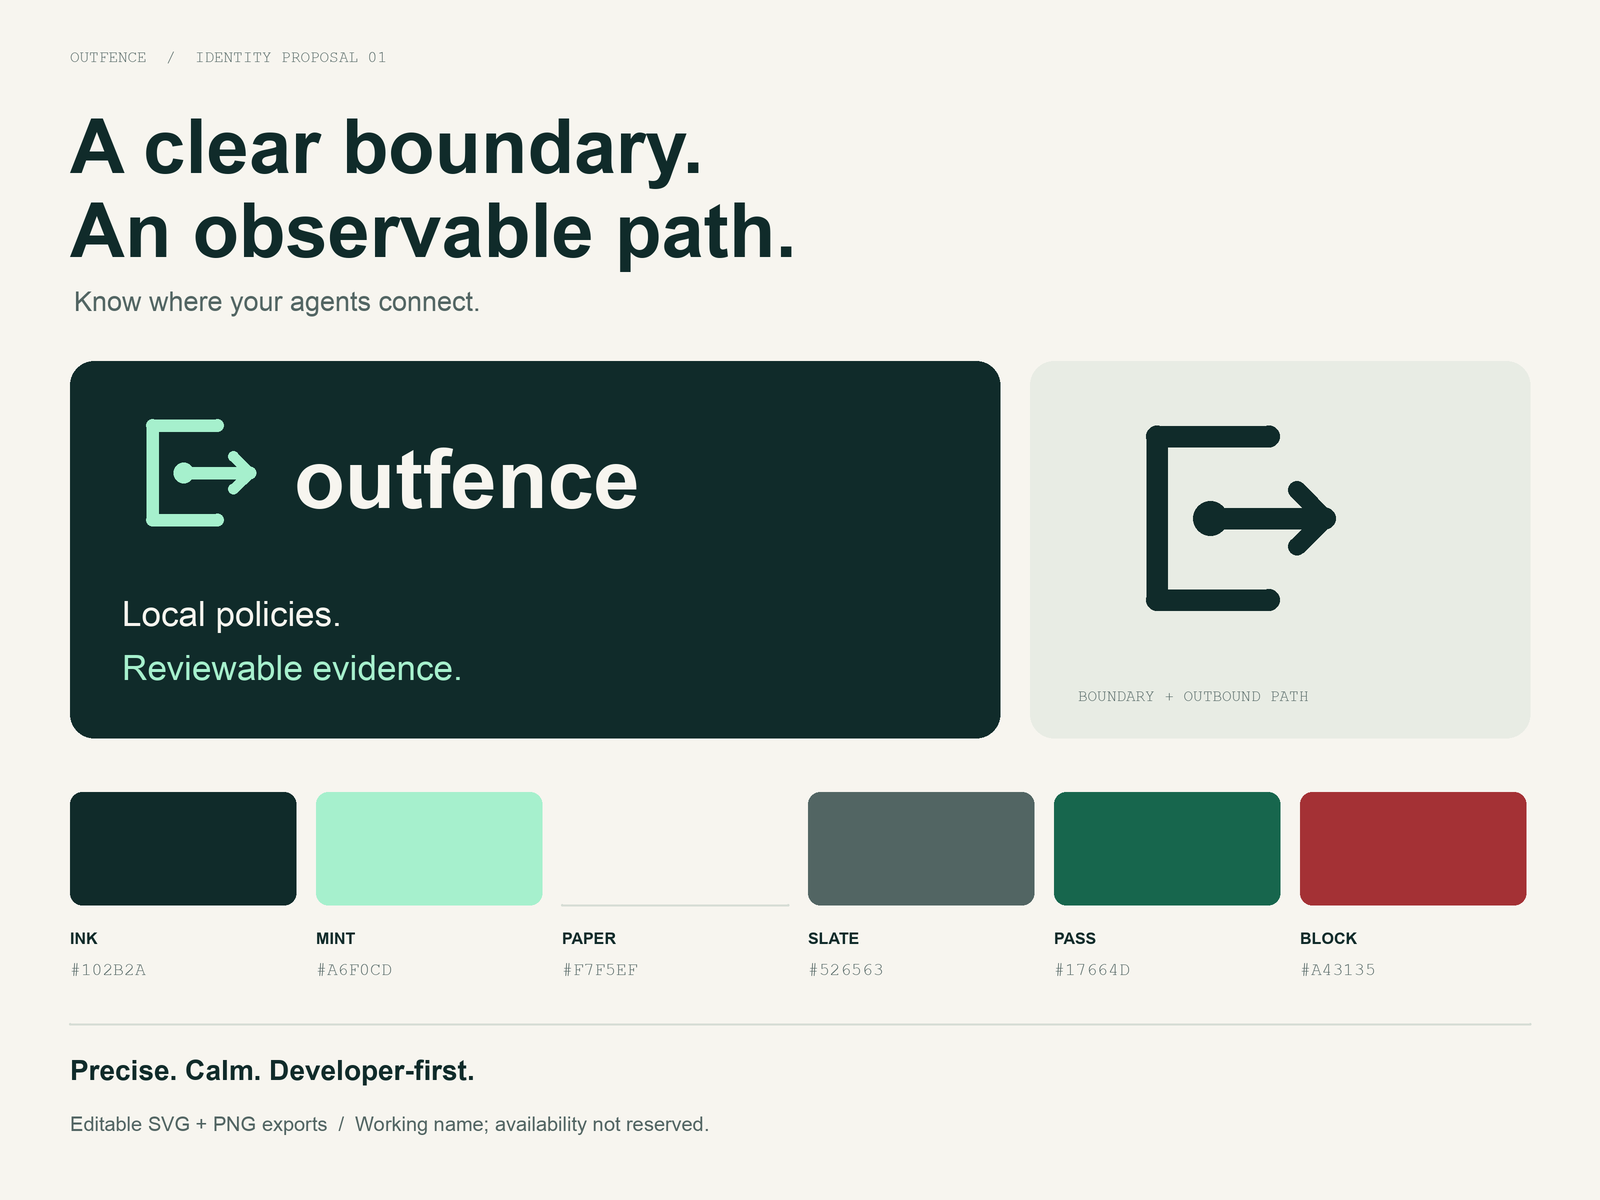
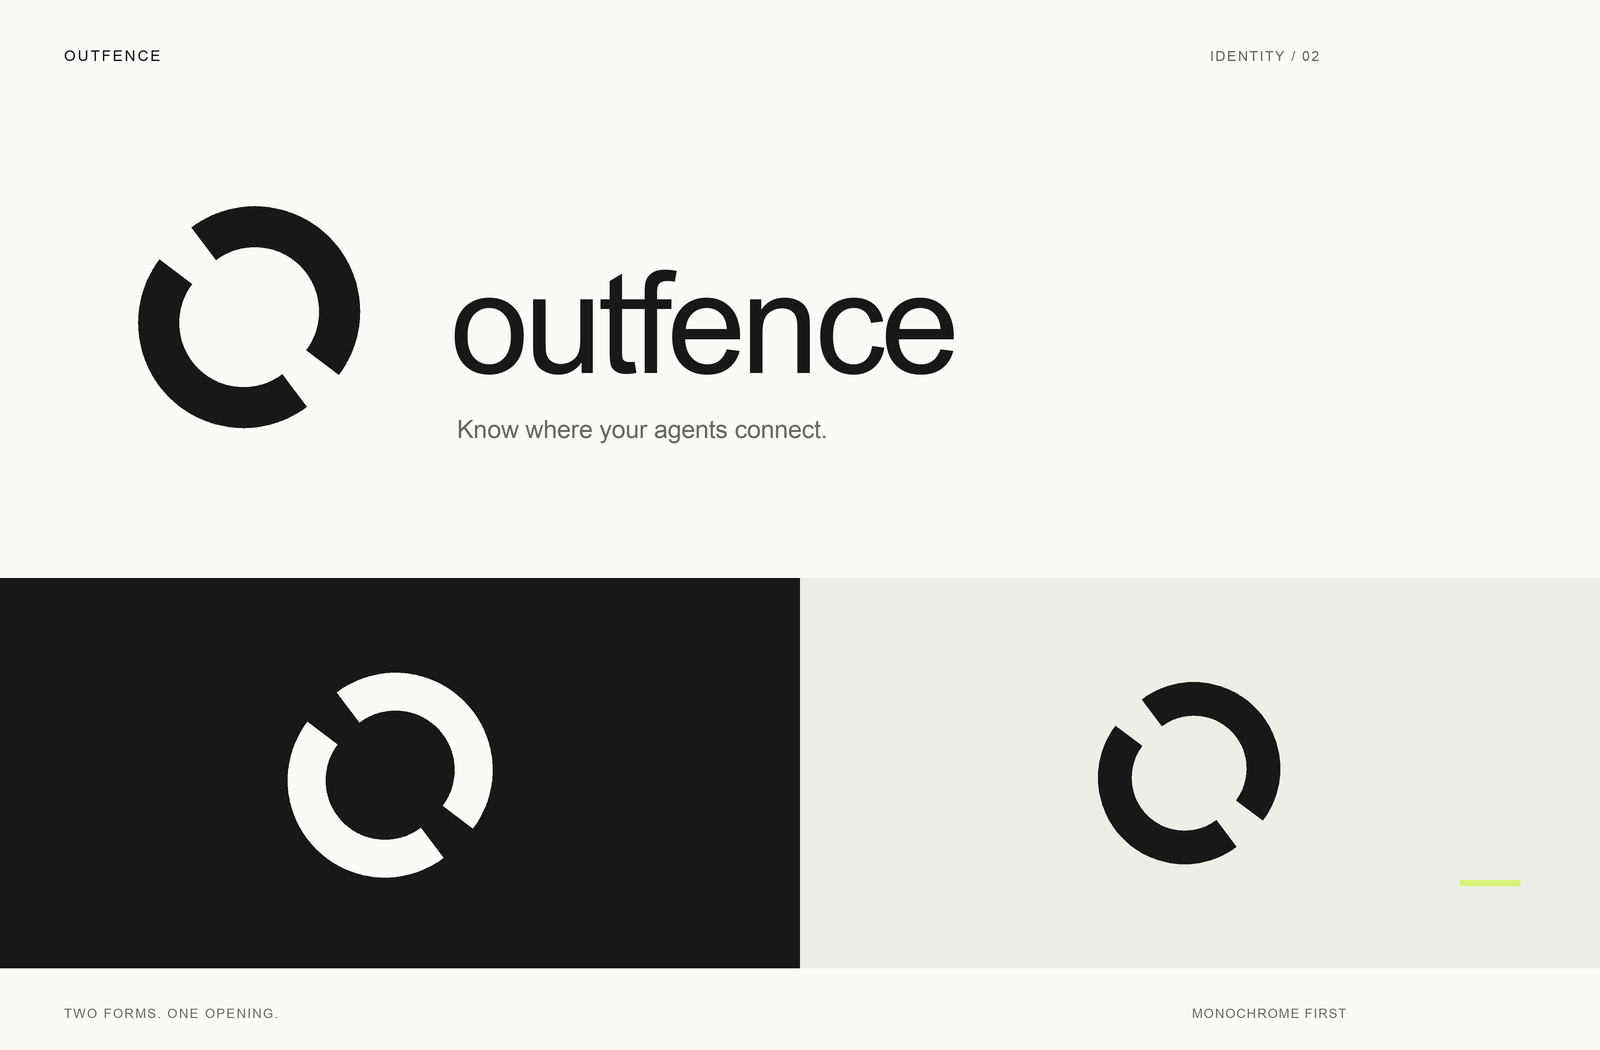
Redesign identity and avoid reverse DNS during local server startup

diff --git a/scripts/build_brand.py b/scripts/build_brand.py
@@ -1,85 +1,94 @@
-"""Generate original vector brand assets and matching high-resolution PNG exports.
-Requires Pillow for PNG export; uses system Arial or a supplied OUTFENCE_FONT_DIR.
-No network requests or third-party artwork. Run from any directory.
+"""Generate Outfence's vector-first identity and matching PNG exports.
+
+Requires Pillow and Arial system fonts, or OUTFENCE_FONT_DIR. All symbol geometry
+is original; no fonts or third-party artwork are bundled. SVG marks use true arcs.
 """
-from pathlib import Path
-import os
+
 import html
 import json
-from PIL import Image, ImageDraw, ImageFont
-ROOT=Path(__file__).resolve().parents[1]
-OUT=ROOT/'brand/assets'
-OUT.mkdir(parents=True,exist_ok=True)
-FONT=Path(os.environ.get('OUTFENCE_FONT_DIR','/System/Library/Fonts/Supplemental'))
-INK='#102B2A'; MINT='#A6F0CD'; PAPER='#F7F5EF'; MUTED='#526563'; LINE='#D6DDD5'; GREEN='#17664D'; RED='#A43135'; AMBER='#865500'
-SCALE=2
-class Canvas:
- def __init__(self,w,h,bg=None):
-  self.w=w;self.h=h;self.parts=[]
-  self.im=Image.new('RGBA',(w*SCALE,h*SCALE),(0,0,0,0));self.d=ImageDraw.Draw(self.im)
-  if bg:self.rect(0,0,w,h,bg)
- def rect(self,x,y,w,h,c,r=0):
-  self.parts.append(f'<rect x="{x}" y="{y}" width="{w}" height="{h}" rx="{r}" fill="{c}"/>')
-  self.d.rounded_rectangle((x*SCALE,y*SCALE,(x+w)*SCALE,(y+h)*SCALE),radius=r*SCALE,fill=c)
- def line(self,pts,c,width=8):
-  self.parts.append(f'<polyline points="'+ ' '.join(f'{x},{y}' for x,y in pts)+f'" fill="none" stroke="{c}" stroke-width="{width}" stroke-linecap="round" stroke-linejoin="round"/>')
-  p=[(int(x*SCALE),int(y*SCALE)) for x,y in pts]
-  self.d.line(p,fill=c,width=round(width*SCALE),joint='curve')
-  r=width*SCALE/2
-  for x,y in p:self.d.ellipse((x-r,y-r,x+r,y+r),fill=c)
- def circle(self,x,y,r,c):
-  self.parts.append(f'<circle cx="{x}" cy="{y}" r="{r}" fill="{c}"/>')
-  self.d.ellipse(((x-r)*SCALE,(y-r)*SCALE,(x+r)*SCALE,(y+r)*SCALE),fill=c)
- def text(self,x,y,t,size=24,c=INK,bold=False,mono=False):
-  fn='Courier New.ttf' if mono else ('Arial Bold.ttf' if bold else 'Arial.ttf')
-  f=ImageFont.truetype(str(FONT/fn),round(size*SCALE))
-  family='Courier New, monospace' if mono else 'Arial, Helvetica, sans-serif'
-  self.parts.append(f'<text x="{x}" y="{y}" font-family="{family}" font-size="{size}" font-weight="{700 if bold else 400}" fill="{c}">{html.escape(t)}</text>')
-  self.d.text((x*SCALE,y*SCALE),t,font=f,fill=c,anchor='ls')
- def mark(self,x,y,size,base=INK,accent=INK):
-  def p(a,b):return (x+a*size/100,y+b*size/100)
-  self.line([p(66,18),p(22,18),p(22,82),p(66,82)],base,size*.085)
-  self.line([p(43,50),p(88,50)],accent,size*.085)
-  self.circle(*p(43,50),size*.068,accent)
-  self.line([p(77,39),p(88,50),p(77,61)],accent,size*.07)
- def save(self,name,title):
-  title=html.escape(title)
-  (OUT/f'{name}.svg').write_text(f'<svg xmlns="http://www.w3.org/2000/svg" width="{self.w}" height="{self.h}" viewBox="0 0 {self.w} {self.h}" role="img" aria-labelledby="title"><title id="title">{title}</title>'+''.join(self.parts)+'</svg>')
-  self.im.resize((self.w,self.h),Image.Resampling.LANCZOS).save(OUT/f'{name}.png')
+import math
+import os
+from pathlib import Path
 
-for name,color in [('mark-ink',INK),('mark-white',PAPER)]:
- c=Canvas(256,256);c.mark(0,0,256,color,color);c.save(name,'Outfence boundary and outbound path symbol')
-c=Canvas(512,512,INK);c.mark(72,72,368,MINT,MINT);c.save('avatar','Outfence avatar')
-for name,bg,fg in [('wordmark-light',None,INK),('wordmark-dark',INK,PAPER)]:
- c=Canvas(760,180,bg);c.mark(8,20,140,fg,fg);c.text(180,123,'outfence',96,fg,True);c.save(name,'Outfence wordmark')
-c=Canvas(1600,560,INK)
-c.mark(64,42,88,MINT,MINT);c.text(168,104,'outfence',48,PAPER,True)
-c.text(80,258,'Know where your',76,PAPER,True);c.text(80,347,'agents connect.',76,PAPER,True)
-c.text(84,448,'Local policies. Reviewable evidence.',28,MINT)
-c.text(84,511,'LOCAL PROXY ALPHA  /  0.1.0a1',16,'#ADC4BD',mono=True)
-c.mark(1090,125,340,MINT,MINT);c.save('banner','Outfence — Know where your agents connect. Local proxy alpha.')
+from PIL import Image, ImageDraw, ImageFont
+
+ROOT = Path(__file__).resolve().parents[1]
+OUT = ROOT / 'brand/assets'
+OUT.mkdir(parents=True, exist_ok=True)
+FONT = Path(os.environ.get('OUTFENCE_FONT_DIR', '/System/Library/Fonts/Supplemental'))
+INK, PAPER, ACCENT, MUTED = '#171917', '#FAFAF7', '#D9F378', '#656B63'
+SCALE = 3
+
+
+class Canvas:
+    def __init__(self, width, height, background=None):
+        self.width, self.height, self.parts = width, height, []
+        self.im = Image.new('RGBA', (width * SCALE, height * SCALE))
+        self.draw = ImageDraw.Draw(self.im)
+        if background:
+            self.rect(0, 0, width, height, background)
+
+    def rect(self, x, y, width, height, color):
+        self.parts.append(f'<rect x="{x}" y="{y}" width="{width}" height="{height}" fill="{color}"/>')
+        self.draw.rectangle((x*SCALE, y*SCALE, (x+width)*SCALE, (y+height)*SCALE), fill=color)
+
+    def text(self, x, y, text, size, color=INK, tracking=0):
+        font = ImageFont.truetype(str(FONT/'Arial.ttf'), round(size*SCALE))
+        self.parts.append(f'<text x="{x}" y="{y}" font-family="Arial, Helvetica, sans-serif" font-size="{size}" letter-spacing="{tracking}" fill="{color}">{html.escape(text)}</text>')
+        cursor = x*SCALE
+        for char in text:
+            self.draw.text((cursor, y*SCALE), char, font=font, fill=color, anchor='ls')
+            cursor += self.draw.textlength(char, font=font) + tracking*SCALE
+
+    def mark(self, x, y, size, color=INK):
+        # Two identical annular sectors, offset along the axis of their openings.
+        # The silhouette is an O; the negative space is an intentional passage.
+        radius, inner = size*.335, size*.205
+        for start, end, dx, dy in [(53, 217, -.018, .018), (233, 397, .018, -.018)]:
+            cx, cy = x+size*(.5+dx), y+size*(.5+dy)
+            def point(r, degrees):
+                radians = math.radians(degrees)
+                return cx+r*math.cos(radians), cy+r*math.sin(radians)
+            a, b, c, d = point(radius,start), point(radius,end), point(inner,end), point(inner,start)
+            path = f'M {a[0]:.4f} {a[1]:.4f} A {radius:.4f} {radius:.4f} 0 0 1 {b[0]:.4f} {b[1]:.4f} L {c[0]:.4f} {c[1]:.4f} A {inner:.4f} {inner:.4f} 0 0 0 {d[0]:.4f} {d[1]:.4f} Z'
+            self.parts.append(f'<path d="{path}" fill="{color}"/>')
+            angles = [start+(end-start)*i/180 for i in range(181)]
+            points = [point(radius,t) for t in angles] + [point(inner,t) for t in reversed(angles)]
+            self.draw.polygon([(round(px*SCALE),round(py*SCALE)) for px,py in points],fill=color)
+
+    def save(self, name, title):
+        (OUT/f'{name}.svg').write_text(f'<svg xmlns="http://www.w3.org/2000/svg" width="{self.width}" height="{self.height}" viewBox="0 0 {self.width} {self.height}" role="img" aria-labelledby="title"><title id="title">{html.escape(title)}</title>'+''.join(self.parts)+'</svg>')
+        self.im.resize((self.width,self.height),Image.Resampling.LANCZOS).save(OUT/f'{name}.png')
+
+
+for name, color in [('mark-ink',INK),('mark-white',PAPER)]:
+    c=Canvas(256,256);c.mark(0,0,256,color);c.save(name,'Outfence split-ring symbol')
+c=Canvas(512,512,INK);c.mark(16,16,480,PAPER);c.save('avatar','Outfence avatar')
+for name,background,color in [('wordmark-light',None,INK),('wordmark-dark',INK,PAPER)]:
+    c=Canvas(760,180,background);c.mark(6,14,152,color);c.text(184,120,'outfence',94,color,-3);c.save(name,'Outfence wordmark')
+c=Canvas(1600,560,PAPER)
+c.mark(74,132,300);c.text(410,342,'outfence',150,INK,-5)
+c.text(422,410,'Know where your agents connect.',27,MUTED,-.3)
+c.rect(1454,62,74,6,ACCENT);c.text(80,507,'LOCAL POLICIES. REVIEWABLE EVIDENCE.',15,MUTED,1)
+c.save('banner','Outfence — Know where your agents connect')
 c=Canvas(1280,640,INK)
-c.mark(64,48,82,MINT,MINT);c.text(160,108,'outfence',44,PAPER,True)
-c.text(72,263,'Know where your',72,PAPER,True);c.text(72,347,'agents connect.',72,PAPER,True)
-c.text(76,425,'Inspect connections. Set boundaries.',26,MINT)
-c.text(76,585,'OPEN SOURCE  /  LOCAL PROXY ALPHA',16,'#ADC4BD',mono=True)
-c.mark(932,349,240,MINT,MINT);c.save('social-preview','Outfence GitHub social preview — local proxy alpha')
-c=Canvas(1600,1200,PAPER)
-c.text(70,62,'OUTFENCE  /  IDENTITY PROPOSAL 01',16,MUTED,mono=True)
-c.text(70,173,'A clear boundary.',76,INK,True);c.text(70,257,'An observable path.',76,INK,True)
-c.text(74,311,'Know where your agents connect.',27,MUTED)
-c.rect(70,361,930,377,INK,24);c.mark(120,399,148,MINT,MINT);c.text(294,508,'outfence',83,PAPER,True)
-c.text(122,626,'Local policies.',35,PAPER);c.text(122,680,'Reviewable evidence.',35,MINT)
-c.rect(1030,361,500,377,'#E8ECE4',24);c.mark(1101,391,255,INK,INK)
-c.text(1078,701,'BOUNDARY + OUTBOUND PATH',16,MUTED,mono=True)
-colors=[('INK',INK),('MINT',MINT),('PAPER',PAPER),('SLATE',MUTED),('PASS',GREEN),('BLOCK',RED)]
-for i,(label,color) in enumerate(colors):
- x=70+i*246;c.rect(x,792,226,113,color,12)
- if label=='PAPER':c.line([(x,905),(x+226,905)],LINE,2)
- c.text(x,944,label,16,INK,True);c.text(x,975,color,18,MUTED,mono=True)
-c.line([(70,1024),(1530,1024)],LINE,2)
-c.text(70,1080,'Precise. Calm. Developer-first.',28,INK,True)
-c.text(70,1131,'Editable SVG + PNG exports  /  Working name; availability not reserved.',20,MUTED)
-c.save('brand-board','Outfence identity proposal with logo, palette and typography')
-(ROOT/'brand/tokens.json').write_text(json.dumps({'name':'Outfence','status':'proposal','colors':{'ink':INK,'mint':MINT,'paper':PAPER,'slate':MUTED,'line':LINE,'success':GREEN,'warning':AMBER,'danger':RED},'typography':{'sans':'Arial, Helvetica, sans-serif','mono':'Courier New, monospace'},'spacing':[4,8,12,16,24,32,48,64,80]},indent=2)+'\n')
-print('Exported 8 SVG/PNG asset pairs and tokens.json')
+c.mark(66,148,318,PAPER);c.text(416,360,'outfence',126,PAPER,-4)
+c.text(426,428,'Know where your agents connect.',24,'#C2C6BC',-.3)
+c.rect(1122,60,86,6,ACCENT);c.text(78,578,'OPEN SOURCE',14,'#C2C6BC',2)
+c.save('social-preview','Outfence — local policies, reviewable evidence')
+c=Canvas(1600,1050,PAPER)
+c.text(64,61,'OUTFENCE',15,INK,2);c.text(1210,61,'IDENTITY / 02',14,MUTED,1.5)
+c.mark(92,160,314);c.text(450,373,'outfence',142,INK,-5)
+c.text(457,438,'Know where your agents connect.',25,MUTED,-.2)
+c.rect(0,578,800,390,INK);c.mark(245,630,290,PAPER)
+c.rect(800,578,800,390,'#ECEEE7');c.mark(1060,644,258,INK)
+c.rect(1460,880,60,6,ACCENT)
+c.text(64,1018,'TWO FORMS. ONE OPENING.',13,MUTED,1.4)
+c.text(1192,1018,'MONOCHROME FIRST',13,MUTED,1)
+c.save('brand-board','Outfence minimal identity: split-ring mark and lowercase wordmark')
+(ROOT/'brand/tokens.json').write_text(json.dumps({
+    'name':'Outfence','identity_version':2,
+    'colors':{'ink':INK,'paper':PAPER,'accent':ACCENT,'slate':MUTED,'line':'#D9DDD3','success':'#17664D','warning':'#865500','danger':'#A43135'},
+    'typography':{'sans':'Arial, Helvetica, sans-serif','mono':'Courier New, monospace'},
+    'spacing':[4,8,12,16,24,32,48,64,80]},indent=2)+'\n')
+print('Exported 8 SVG/PNG pairs: identity 02.')

diff --git a/tests/test_release.py b/tests/test_release.py
@@ -6,7 +6,7 @@ import socket
 import tempfile
 import threading
 import unittest
-from http.server import BaseHTTPRequestHandler, ThreadingHTTPServer
+from http.server import BaseHTTPRequestHandler
 from pathlib import Path
 from unittest.mock import patch
 from urllib.error import HTTPError
@@ -14,6 +14,7 @@ from urllib.request import ProxyHandler, build_opener
 
 from outfence.cli import main
 from outfence.policy import validate_policy
+from outfence.proxy import LoopbackHTTPServer as ThreadingHTTPServer
 from outfence.proxy import Proxy, Service, now
 from outfence.report import write_report
 
@@ -21,6 +22,12 @@ POLICY = {"version": 1, "allow": [{"host": "model.example", "port": 80}]}
 
 
 class AlphaTests(unittest.TestCase):
+    def test_local_server_setup_never_uses_reverse_dns(self):
+        with patch("socket.getfqdn", side_effect=AssertionError("Unexpected DNS lookup")):
+            with Service(ThreadingHTTPServer(("127.0.0.1", 0), BaseHTTPRequestHandler)):
+                with Service(Proxy(POLICY, "enforce")) as proxy:
+                    self.assertGreater(proxy.server_port, 0)
+
     def test_policy_rejects_ambiguous_values(self):
         invalid = [
             None,

diff --git a/outfence/cli.py b/outfence/cli.py
@@ -7,13 +7,12 @@ import signal
 import subprocess
 import sys
 import uuid
-from http.server import ThreadingHTTPServer
 from pathlib import Path
 
 from . import __version__
 from .demo import Fixture, demo_requests
 from .policy import DEMO_POLICY, load_policy
-from .proxy import Proxy, Service, now
+from .proxy import LoopbackHTTPServer, Proxy, Service, now
 from .report import write_report
 
 
@@ -111,7 +110,7 @@ def main(argv=None):
             print("OBSERVE: out-of-policy proxy requests may connect.", flush=True)
         started, incomplete, workload_exit = now(), False, 0
         if args.command == "demo":
-            fixture = ThreadingHTTPServer(("127.0.0.1", 0), Fixture)
+            fixture = LoopbackHTTPServer(("127.0.0.1", 0), Fixture)
             fixture.received = []
             with Service(fixture):
                 routes = {

diff --git a/scripts/smoke_install.py b/scripts/smoke_install.py
@@ -22,7 +22,11 @@ with tempfile.TemporaryDirectory() as temporary:
         ([sys.executable, "-m", "outfence", "demo", "--mode", "observe", "--output", "observe"], 2),
     ]
     for command, expected in commands:
-        result = subprocess.run(command, cwd=root, env=env, capture_output=True, text=True, timeout=20)
+        print(f"Smoke: {command}", flush=True)
+        try:
+            result = subprocess.run(command, cwd=root, env=env, capture_output=True, text=True, timeout=20)
+        except subprocess.TimeoutExpired as exc:
+            raise AssertionError(f"Timed out: {command}\nstdout={exc.stdout!r}\nstderr={exc.stderr!r}") from exc
         if result.returncode != expected:
             raise AssertionError(f"{command}: {result.returncode}\n{result.stdout}\n{result.stderr}")
     policy = json.loads((root / "policy.json").read_text())

diff --git a/outfence/proxy.py b/outfence/proxy.py
@@ -6,6 +6,7 @@ import http.client
 import ipaddress
 import select
 import socket
+import socketserver
 import threading
 import time
 from http.server import BaseHTTPRequestHandler, ThreadingHTTPServer
@@ -18,7 +19,15 @@ def now():
     return dt.datetime.now(dt.timezone.utc).isoformat()
 
 
-class Proxy(ThreadingHTTPServer):
+class LoopbackHTTPServer(ThreadingHTTPServer):
+    """Bind numerical loopback without HTTPServer's unused reverse-DNS lookup."""
+
+    def server_bind(self):
+        socketserver.TCPServer.server_bind(self)
+        self.server_name, self.server_port = self.server_address[:2]
+
+
+class Proxy(LoopbackHTTPServer):
     daemon_threads = True
 
     def __init__(self, policy, mode, fixtures=None, max_events=10000):

diff --git a/tests/test_proxy.py b/tests/test_proxy.py
@@ -3,12 +3,12 @@ import json
 import socket
 import tempfile
 import unittest
-from http.server import ThreadingHTTPServer
 from pathlib import Path
 
 from outfence.cli import main
 from outfence.core import Proxy, Service, load_policy, now, write_report
 from outfence.demo import Fixture, demo_requests
+from outfence.proxy import LoopbackHTTPServer as ThreadingHTTPServer
 
 POLICY = {
     "version": 1,

diff --git a/brand/README.md b/brand/README.md
@@ -1,24 +1,24 @@
 # Outfence brand guide
 
-**Working identity · v0.1 · 12 September 2026**
+**Identity 02 · 12 September 2026**
 
 ![Outfence identity proposal](assets/brand-board.png)
 
 ## Name and positioning
 
-**Outfence** combines outbound activity with a boundary. Pronounce it “OUT-fens.” Use Outfence in prose and `outfence` for the proposed repository/CLI. The lowercase wordmark is intentional.
+**Outfence** combines outbound activity with a boundary. Pronounce it “OUT-fens.” Use Outfence in prose and `outfence` for the repository/CLI. The lowercase wordmark is intentional.
 
 Primary line: **Know where your agents connect.**
 
 Supporting line: **Local policies. Reviewable evidence.**
 
-One sentence: “Outfence helps developers inspect and control outbound connections from containerized AI agent runs.” Until implemented, qualify this as the proposed product.
+One sentence: “Outfence helps developers inspect proxy-routed agent connections and apply local destination policies.”
 
 Alternative considered: Egresslane, technically clear but longer and less conversational. Tracegate was rejected because relevant software products already use it. Name clearance and handles remain pending; see [research notes](../docs/RESEARCH.md).
 
 ## Symbol
 
-An open rectangular boundary frames a dot and an outbound arrow. The mark also suggests an E for egress. It is original vector geometry with no external illustrations or icon dependencies. Use it to represent visible, intentional connections. It is not a certification mark.
+Two opposing circular segments form an open O. Small diagonal cuts and a slight offset make the negative space part of the symbol. The mark uses two filled vector paths with true circular arcs: no arrow, shield, outline, or decorative detail. It works in a single color at small sizes.
 
 Minimum display size: 24 px symbol, 160 px complete wordmark. Keep clear space around the visible symbol equal to at least 15% of its width. Keep proportions intact. Use the monochrome mark on busy backgrounds. Do not add shields, gradients, glows, rotations, or extra outlines.
 
@@ -26,22 +26,22 @@ Minimum display size: 24 px symbol, 160 px complete wordmark. Keep clear space a
 
 | Token | Hex | Use |
 |---|---|---|
-| Ink | `#102B2A` | Primary text and dark backgrounds |
-| Mint | `#A6F0CD` | Brand accent on ink; button background with ink text |
-| Paper | `#F7F5EF` | Light canvas and text on ink |
-| Slate | `#526563` | Secondary text on paper |
-| Line | `#D6DDD5` | Dividers and decorative boundaries |
+| Ink | `#171917` | Primary text and dark backgrounds |
+| Acid | `#D9F378` | Sparse supporting accent; never required to recognize the logo |
+| Paper | `#FAFAF7` | Light canvas and text on ink |
+| Slate | `#656B63` | Secondary text on paper |
+| Line | `#D9DDD3` | Dividers and decorative boundaries |
 | Success | `#17664D` | Allowed/passed label on paper |
 | Warning | `#865500` | Observation or incomplete coverage label on paper |
 | Danger | `#A43135` | Blocked/error label on paper |
 
-Use ink text on mint. Mint is unsuitable for small text on paper. Pair every state color with a word or symbol; never communicate policy decisions through color alone. Divider color is decorative and must not be the only indicator of an interactive control.
+Use ink text on acid. Acid is unsuitable for small text on paper. Keep the logo monochrome; reserve color for a small supporting detail. Pair every state color with a word or symbol; never communicate policy decisions through color alone. Divider color is decorative and must not be the only indicator of an interactive control.
 
 ## Typography and layout
 
-Current artwork: Arial Bold for headings/wordmark, Arial for body, Courier New for small technical labels. These are system-font choices; no font files are distributed. SVG wordmarks retain editable text and may differ on systems without the font. Use PNGs for consistent GitHub display or outline the text before preparing professional print assets.
+Current artwork: Arial Regular with tightened spacing for the wordmark and large headings; small uppercase labels use wider spacing. These are system-font choices; no font files are distributed. SVG wordmarks retain editable text and may differ on systems without the font. Use PNGs for consistent GitHub display or outline the text before preparing professional print assets.
 
-Web fallback stacks: `Arial, Helvetica, sans-serif` and `'Courier New', monospace`. Use a 4 px spacing base, generous margins, short headings, and clear labels. Prefer rounded panels with restrained radii to ornamental graphics.
+Web fallback stacks: `Arial, Helvetica, sans-serif` and `'Courier New', monospace`. Use a 4 px spacing base, generous margins, short headings, and clear labels. Use flat surfaces, generous whitespace, and a single clear visual hierarchy.
 
 ## Voice
 
@@ -64,8 +64,8 @@ Avoid: “Leak-proof,” “sovereignty certified,” “complete visibility,”
 | Dark wordmark | [SVG](assets/wordmark-dark.svg) | [PNG](assets/wordmark-dark.png) | 760 × 180 dark lockup |
 | README banner | [SVG](assets/banner.svg) | [PNG](assets/banner.png) | 1600 × 560 banner |
 | Social preview | [SVG](assets/social-preview.svg) | [PNG](assets/social-preview.png) | 1280 × 640 social card |
-| Brand board | [SVG](assets/brand-board.svg) | [PNG](assets/brand-board.png) | 1600 × 1200 identity overview |
+| Brand board | [SVG](assets/brand-board.svg) | [PNG](assets/brand-board.png) | 1600 × 1050 identity overview |
 
 Machine-readable colors and typography: [tokens.json](tokens.json). Rebuild artwork with `python3 scripts/build_brand.py` from the repository root. Requires Pillow and the documented system fonts, or `OUTFENCE_FONT_DIR` pointing to equivalent font filenames.
 
-The repository and artwork use Apache-2.0; the brand name remains provisional. No trademark, domain, package, or GitHub organization has been registered by this work.
+The repository and artwork use Apache-2.0; the brand name remains provisional. The repository is github.com/gsaccardi/outfence. No trademark, domain, or package-registry name has been reserved.

diff --git a/CHANGELOG.md b/CHANGELOG.md
@@ -1,5 +1,11 @@
 # Changelog
 
+## Unreleased
+
+- Replace the arrow-based identity with a minimal, monochrome split-ring symbol.
+- Skip reverse DNS during loopback server startup, preventing cold-process demo timeouts on macOS CI.
+- Add a regression check for DNS-free server startup and actionable smoke-test timeout output.
+
 ## 0.1.0a1 — first alpha candidate
 
 ### Added
